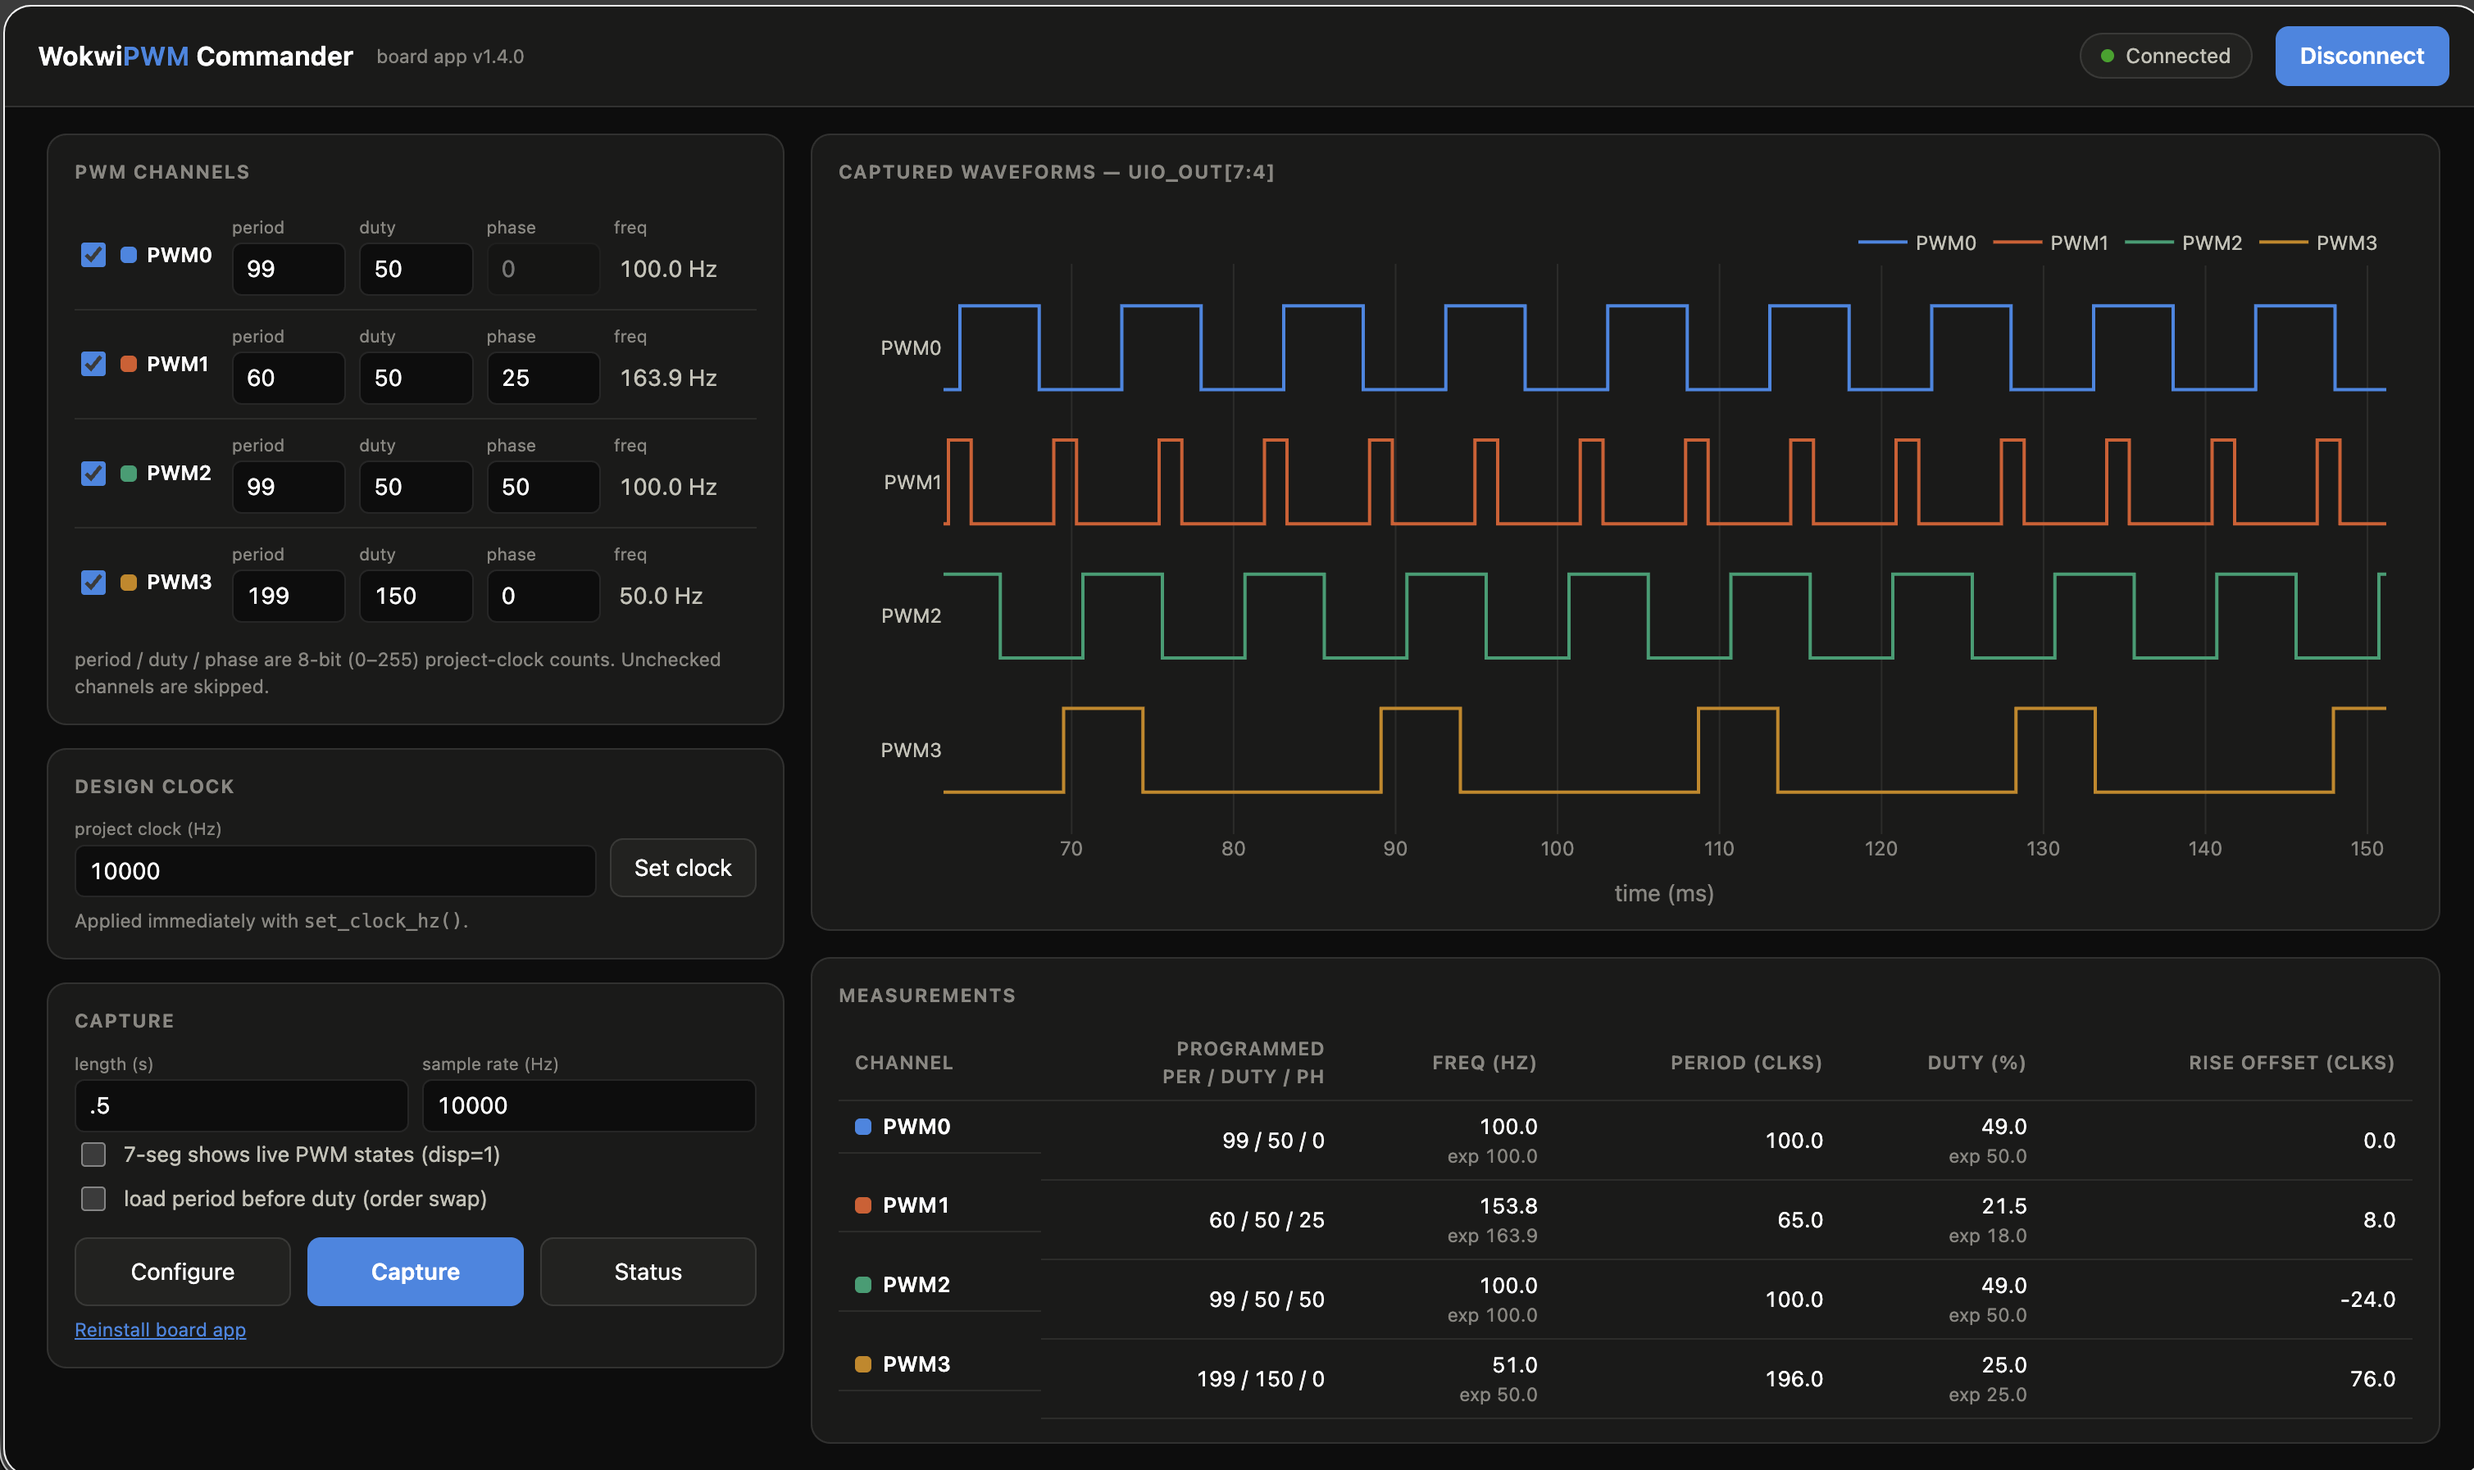
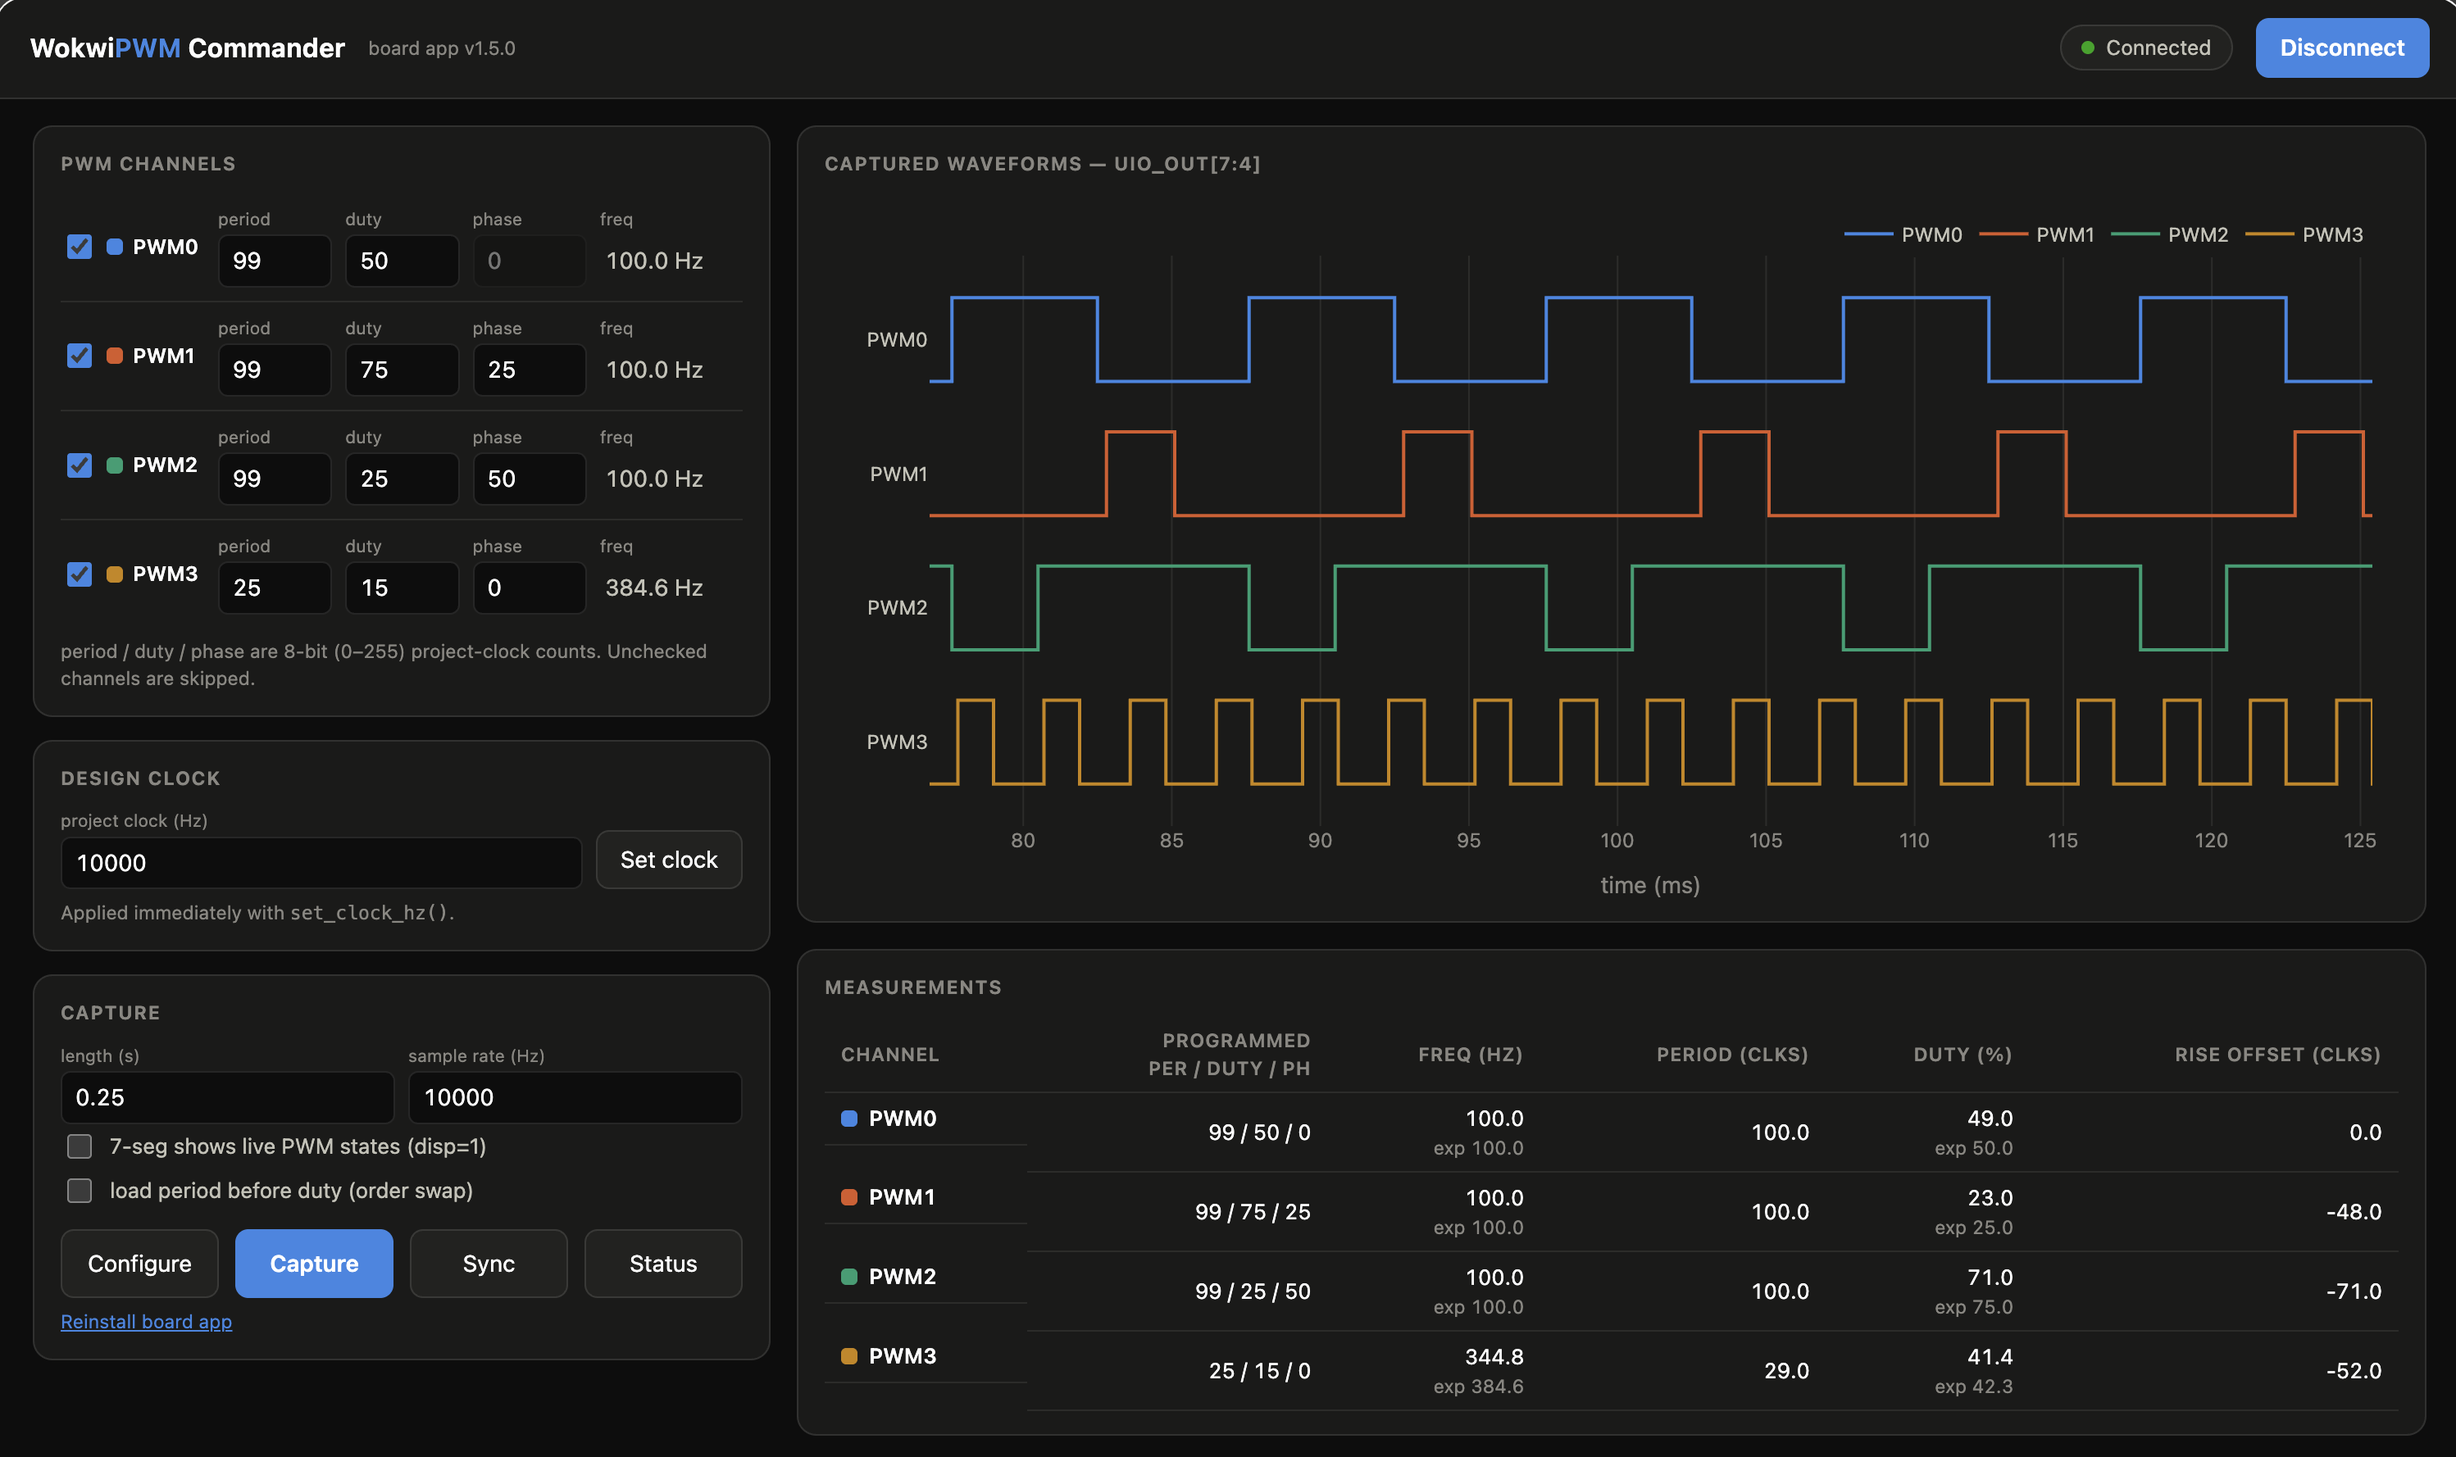
Updated README.md and PWM_Commander_Results

diff --git a/README.md b/README.md
@@ -1,39 +1,151 @@
-![](../../workflows/gds/badge.svg) ![](../../workflows/docs/badge.svg) ![](../../workflows/wokwi_test/badge.svg) ![](../../workflows/fpga/badge.svg)
+# WokwiPWM — 4-channel programmable PWM generator
 
-# Tiny Tapeout Wokwi Project Template
+A four-channel programmable PWM peripheral, designed entirely in the
+[Wokwi](https://wokwi.com/projects/445338187869298689) logic editor and
+fabricated on the **Tiny Tapeout sky25b** shuttle
+(macro `tt_um_wokwi_445338187869298689`, mux address 748, 10 kHz default
+project clock).
 
-- [Read the documentation for project](docs/info.md)
+**And yes — it works on real silicon.** See the
+[bring-up story](#bringing-it-up-on-silicon) below.
 
-## What is Tiny Tapeout?
+![Block diagram](docs/block_diagram.png)
 
-Tiny Tapeout is an educational project that aims to make it easier and cheaper than ever to get your digital and analog designs manufactured on a real chip.
+## Features
 
-To learn more and get started, visit https://tinytapeout.com.
+- 4 independent PWM channels, each with an 8-bit **period** and **duty**
+  register
+- 8-bit **phase** registers on PWM1–PWM3 that delay each channel's first
+  count-start relative to PWM0 — programmable phase-shifted outputs
+- Simple 3-wire register-load interface (`load` / `skip` / `zero`) with the
+  data byte on `ui_in[7:0]`
+- A control register to re-zero individual channel counters for
+  re-synchronization after programming
+- 7-segment display output showing either the register-load address or the
+  live PWM output states (selected by `disp`)
 
-## Wokwi Projects
+Each channel's counter counts 0…period. The output goes **high** when the
+counter reaches `duty` and **low** when it rolls over, so:
 
-Edit the [info.yaml](info.yaml) and change the `wokwi_id` to the ID of your Wokwi project. You can find the ID in the URL of your project, it's the big number after `wokwi.com/projects/`.
+    f_out     = f_clk / (period + 1)
+    high time = period − duty + 1 clocks
 
-The GitHub action will automatically fetch the digital netlist from Wokwi and build the ASIC files.
+## Pinout
 
-## Enable GitHub actions to build the results page
+| Pin | Function |
+|---|---|
+| `ui_in[7:0]` | Register data byte |
+| `uio_in[0]` | `load` — rising edge: load register at current address, address += 1 |
+| `uio_in[1]` | `skip` — rising edge: address += 1 without loading |
+| `uio_in[2]` | `zero` — rising edge: address = 0, re-arms the phase delays |
+| `uio_in[3]` | `disp` — 7-seg source: 0 = load address, 1 = live PWM states |
+| `uio_out[7:4]` | PWM0…PWM3 outputs |
+| `uo_out[6:0]` | 7-segment display (via 4-bit hex decoder) |
 
-- [Enabling GitHub Pages](https://tinytapeout.com/faq/#my-github-action-is-failing-on-the-pages-part)
+## Register map
 
-## Resources
+Registers load in address order; `zero` resets the address, `load` writes
+and advances, `skip` advances without writing (leaving a register at its
+previous value):
 
-- [FAQ](https://tinytapeout.com/faq/)
-- [Digital design lessons](https://tinytapeout.com/digital_design/)
-- [Learn how semiconductors work](https://tinytapeout.com/siliwiz/)
-- [Join the community](https://tinytapeout.com/discord)
-- [Build your design locally](https://www.tinytapeout.com/guides/local-hardening/)
+| Addr | Register | Addr | Register |
+|---|---|---|---|
+| 0x0 | PWM0 duty   | 0x6 | PWM3 duty   |
+| 0x1 | PWM0 period | 0x7 | PWM3 period |
+| 0x2 | PWM1 duty   | 0x8 | PWM1 phase  |
+| 0x3 | PWM1 period | 0x9 | PWM2 phase  |
+| 0x4 | PWM2 duty   | 0xA | PWM3 phase  |
+| 0x5 | PWM2 period | 0xB | Control     |
 
-## What next?
+Control register bit *i* re-zeroes PWM *i*'s counter, allowing the channels
+to be re-synchronized after reprogramming. (PWM0 has no phase register —
+the other channels' phases are relative to it.)
 
-- [Submit your design to the next shuttle](https://app.tinytapeout.com/).
-- Edit [this README](README.md) and explain your design, how it works, and how to test it.
-- Share your project on your social network of choice:
-  - LinkedIn [#tinytapeout](https://www.linkedin.com/search/results/content/?keywords=%23tinytapeout) [@TinyTapeout](https://www.linkedin.com/company/100708654/)
-  - Mastodon [#tinytapeout](https://chaos.social/tags/tinytapeout) [@matthewvenn](https://chaos.social/@matthewvenn)
-  - X (formerly Twitter) [#tinytapeout](https://twitter.com/hashtag/tinytapeout) [@tinytapeout](https://twitter.com/tinytapeout)
-  - Bluesky [@tinytapeout.com](https://bsky.app/profile/tinytapeout.com)
+One gotcha worth knowing: the `load`/`skip`/`zero` edge detectors are
+sampled by the **project clock**, so registers should be programmed with
+the design clocked at ≥10 kHz. If you want to *run* it slower (fun for
+watching LEDs), program first, then slow the clock down — the test apps
+below do this automatically.
+
+## Bringing it up on silicon
+
+The chips came back from the sky25b shuttle, and this design got a full
+hardware-in-the-loop test rig on the Tiny Tapeout demoboard (RP2350B).
+Everything lives in [`pwm-test/`](pwm-test/) in this repo.
+
+### The measurement problem
+
+Programming the registers is easy — bit-bang `load`/`skip`/`zero` from
+MicroPython. *Verifying* the outputs is the interesting part: four PWM
+channels with programmable phase relationships need to be sampled
+simultaneously, and Python-loop polling isn't going to cut it.
+
+The trick: on the demoboard, the four PWM outputs (`uio_out[7:4]`) land on
+four **consecutive** RP2350 GPIOs (29–32). That's a perfect setup for a
+one-instruction PIO program — `in pins, 4` — acting as a 4-channel logic
+analyzer, sampling at exactly the configured rate, packing 8 samples per
+word, and DMA-ing straight to RAM. Two wrinkles worth noting if you borrow
+this: GPIO32 sits outside the PIO's default pin window on the RP2350B
+(fixed with `PIO.gpio_base(16)`), and the capture deliberately starts
+*before* the `zero` toggle so the phase-delayed first edges are inside the
+record.
+
+### PWM Commander
+
+On top of that sits **PWM Commander**
+([`pwm-test/web/index.html`](pwm-test/web/index.html)) — a single-file web
+app that talks MicroPython's raw-REPL protocol directly over Web Serial
+(Chrome/Edge). Connect the demoboard over USB and it:
+
+1. auto-installs (and auto-updates) the MicroPython test package onto the
+   board,
+2. enables the WokwiPWM project on the shuttle mux,
+3. programs period/duty/phase for each channel — at a programming-safe
+   clock, restoring a slower clock afterwards if one is configured,
+4. captures the four outputs with the PIO logic analyzer, and
+5. renders them o-scope style (zoom/pan/PNG export) with measured vs
+   expected frequency, duty, and phase below.
+
+### Results
+
+![PWM Commander showing all four channels captured and measured](PWM_Commander_Results.png)
+
+That's a real capture from the chip: four channels programmed with
+different period/duty/phase combinations, sampled at 10 kHz with the
+project clocked at 10 kHz. PWM0-PWM3 (period 99) all measure
+**100.0 Hz** against an expected 100.0 Hz; PWM3 (period 25, duty 15)
+measures **344.8 Hz / 41% duty** against an expected 384.6 Hz; PWM1 and PWM2
+are phase shifted (falling edges aligned) relative to PWM0 after being "Sync"ed.
+falling edges from the phase registers are plainly visible across the three
+traces. Frequency, duty cycle, and phase all behave as designed — the
+silicon does what the Wokwi diagram said it would.
+
+There's also a CLI alternative
+([`pwm-test/host/capture_pwm.py`](pwm-test/host/capture_pwm.py), via
+`mpremote` + matplotlib) and the board package can be driven straight from
+the REPL:
+
+```python
+import examples.wokwi_wokwipwm as w
+w.run()                       # program a demo config, capture, print a report
+w.configure({'clock_hz': 500, 'pwms': [[99, 50, 0], None, None, None]})
+w.set_clock_hz(100)           # watch it blink
+```
+
+See [`pwm-test/README.md`](pwm-test/README.md) for the full usage guide.
+
+## Repo layout
+
+| Path | What |
+|---|---|
+| `src/` | Wokwi-generated netlist (`cells.v`) and Tiny Tapeout config |
+| `docs/` | Design documentation and block diagram |
+| `info.yaml` | Tiny Tapeout project metadata |
+| `pwm-test/` | Hardware test suite: web app, MicroPython board package, CLI tool |
+| `PWM_Commander_Results.png` | The chip, working |
+
+## Links
+
+- [Wokwi project](https://wokwi.com/projects/445338187869298689)
+- [Tiny Tapeout](https://tinytapeout.com) — fab your own design on a shared shuttle
+- [Tiny Tapeout demoboard SDK](https://github.com/TinyTapeout/tt-micropython-firmware)
